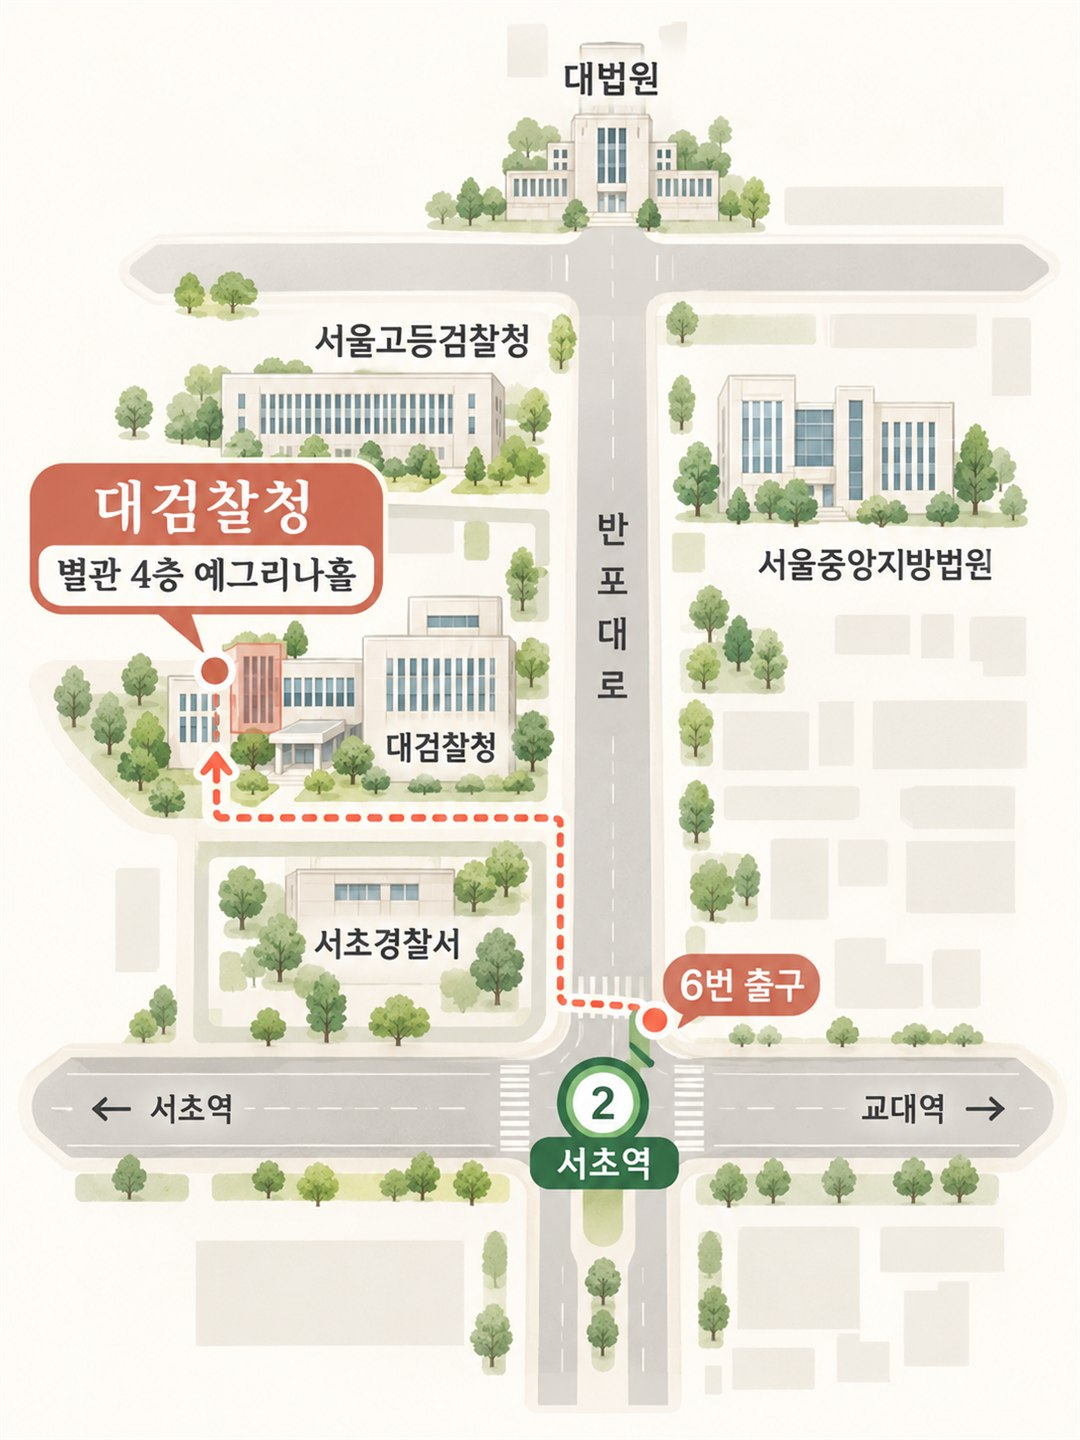
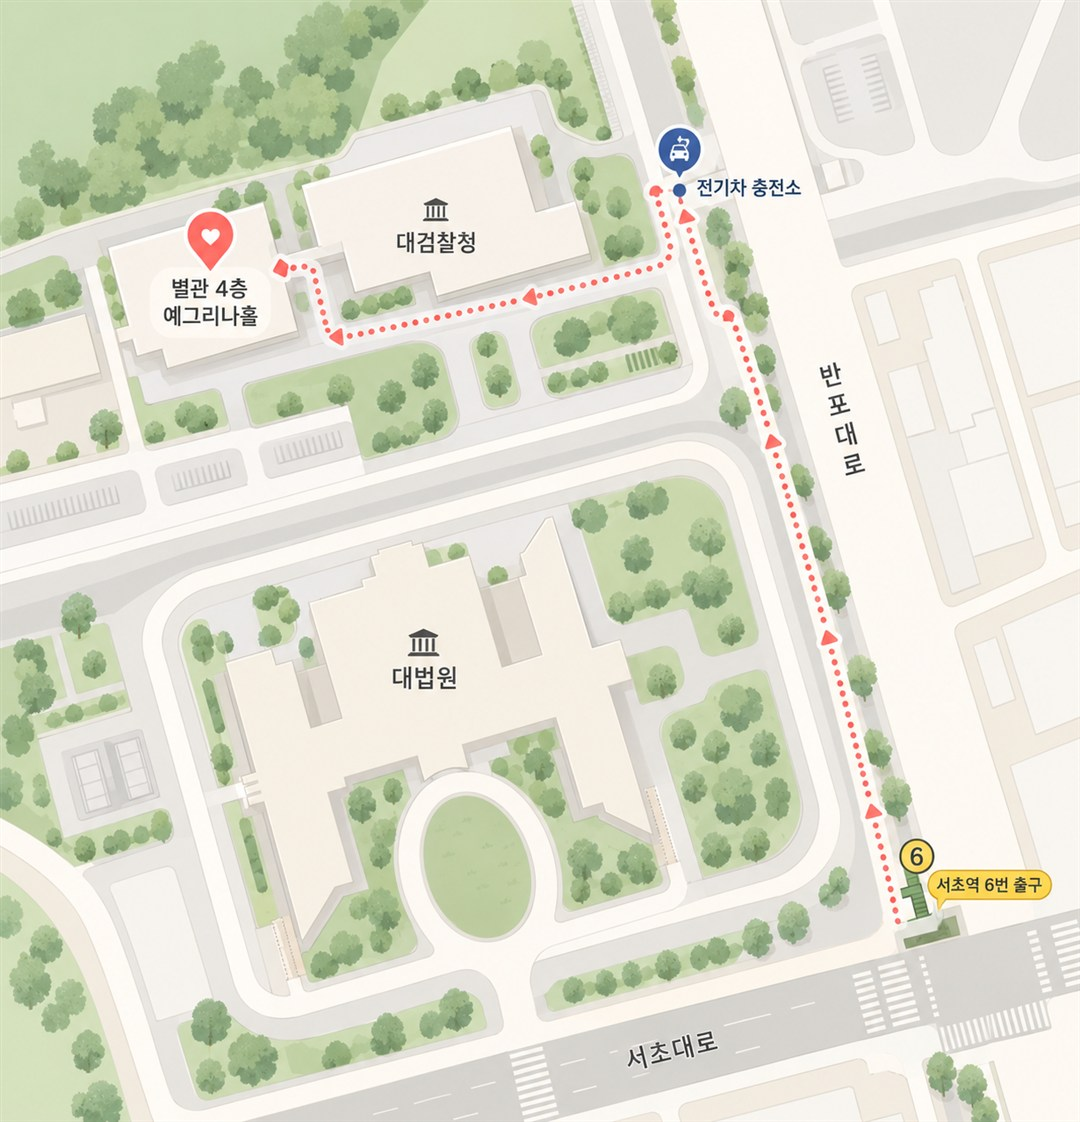
Correct venue entrance route map

diff --git a/docs/index.html b/docs/index.html
@@ -103,7 +103,7 @@
           <h2 id="location-title">오시는 길</h2>
           <div class="venue-card">
             <figure class="location-map">
-              <img src="./images/location-map.jpg" alt="서초역 6번 출구에서 대검찰청 별관 4층 예그리나홀까지의 약도" loading="lazy" decoding="async" />
+              <img src="./images/location-map.jpg?v=20261007-2" alt="서초역 6번 출구에서 전기차 충전소 옆 입구를 거쳐 대검찰청 별관 4층 예그리나홀까지 가는 약도" loading="lazy" decoding="async" />
             </figure>
             <div class="venue-content">
               <p class="venue-label">WEDDING VENUE</p>
@@ -117,7 +117,7 @@
             <div><strong>주차</strong><span>무료 주차 가능</span></div>
           </div>
           <div class="map-links">
-            <a href="https://map.naver.com/p/search/%EC%84%9C%EC%9A%B8%20%EC%84%9C%EC%B4%88%EA%B5%AC%20%EB%B0%98%ED%8F%AC%EB%8C%80%EB%A1%9C%20157" target="_blank" rel="noopener noreferrer">네이버 지도 <span aria-hidden="true">↗</span></a>
+            <a href="https://naver.me/5fIpR2GD" target="_blank" rel="noopener noreferrer">네이버 지도 <span aria-hidden="true">↗</span></a>
             <a href="https://map.kakao.com/?q=%EC%84%9C%EC%9A%B8%20%EC%84%9C%EC%B4%88%EA%B5%AC%20%EB%B0%98%ED%8F%AC%EB%8C%80%EB%A1%9C%20157" target="_blank" rel="noopener noreferrer">카카오맵 <span aria-hidden="true">↗</span></a>
           </div>
         </section>
